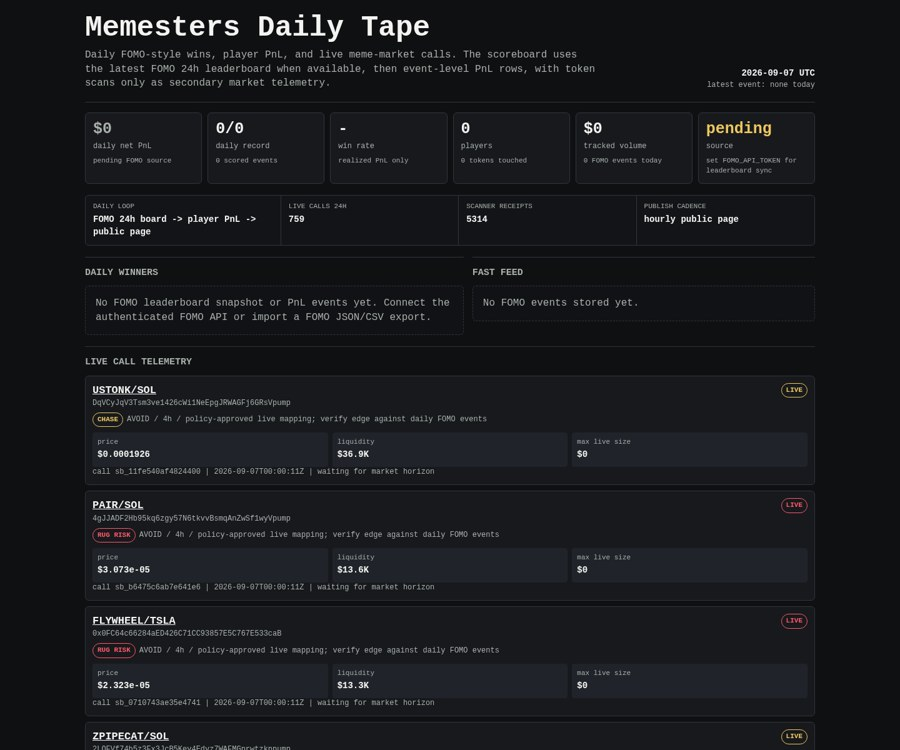
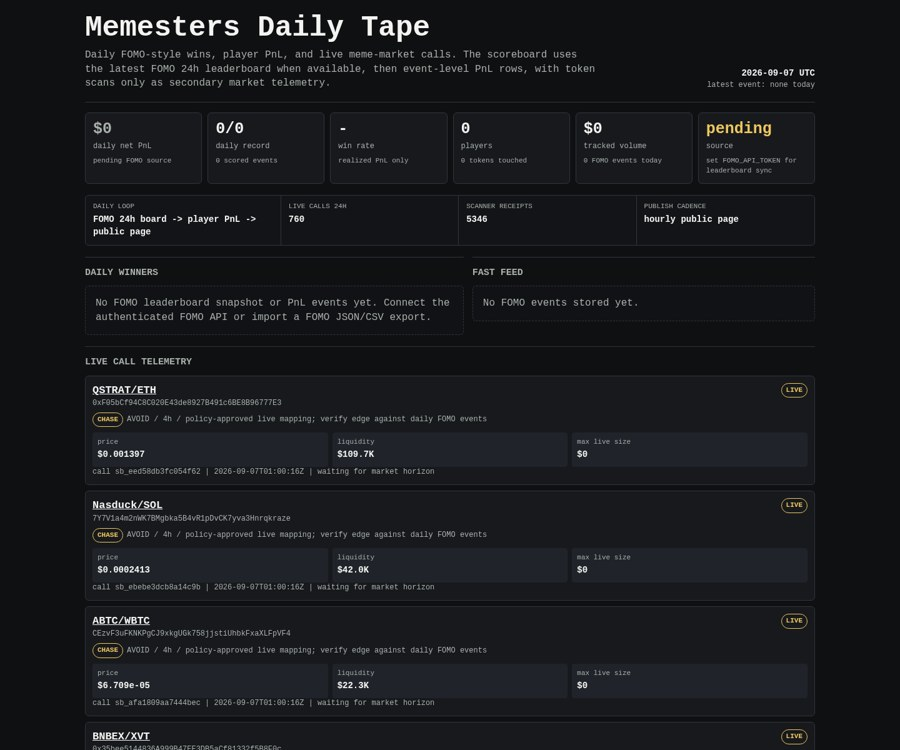
Update Memesters scoreboard

diff --git a/memesters/index.html b/memesters/index.html
@@ -149,8 +149,8 @@
 
     <div class="rail" aria-label="live operating loop">
       <div><span>daily loop</span><b>FOMO 24h board -> player PnL -> public page</b></div>
-      <div><span>live calls 24h</span><b>759</b></div>
-      <div><span>scanner receipts</span><b>5314</b></div>
+      <div><span>live calls 24h</span><b>760</b></div>
+      <div><span>scanner receipts</span><b>5346</b></div>
       <div><span>publish cadence</span><b>hourly public page</b></div>
     </div>
 
@@ -171,8 +171,8 @@
     <article class="receipt">
       <div class="receipt-head">
         <div>
-          <div class="pair"><a href="https://dexscreener.com/solana/961szob1qqorhqvrbsfu2lzju4az8f7j7ptanohurzjg">USTONK/SOL</a></div>
-          <div class="addr">DqVCyJqV3Tsm3ve1426cWi1NeEpgJRWAGFj6GRsVpump</div>
+          <div class="pair"><a href="https://dexscreener.com/robinhood/0x36e73ddbdd1e963a128069fd4b4aada63136ce62a6812234122dbf8b471ebcb8">QSTRAT/ETH</a></div>
+          <div class="addr">0xF05bCf94C8C020E43de8927B491c6BE8B96777E3</div>
           <div class="addr policy-line">
             <span class="badge chase">CHASE</span>
             <span>AVOID / 4h / policy-approved live mapping; verify edge against daily FOMO events</span>
@@ -181,19 +181,103 @@
         <span class="badge chase">LIVE</span>
       </div>
       <div class="receipt-grid">
-        <div class="kv"><span>price</span><b>$0.0001926</b></div>
-        <div class="kv"><span>liquidity</span><b>$36.9K</b></div>
+        <div class="kv"><span>price</span><b>$0.001397</b></div>
+        <div class="kv"><span>liquidity</span><b>$109.7K</b></div>
         <div class="kv"><span>max live size</span><b>$0</b></div>
       </div>
-      <div class="outcomes">call sb_11fe540af4824400 | 2026-09-07T00:00:11Z | waiting for market horizon</div>
+      <div class="outcomes">call sb_eed58db3fc054f62 | 2026-09-07T01:00:16Z | waiting for market horizon</div>
     </article>
     
 
     <article class="receipt">
       <div class="receipt-head">
         <div>
-          <div class="pair"><a href="https://dexscreener.com/solana/5qfuoruslf6qe9mp8rwy14eednw3qdted9oft8td5rhp">PAIR/SOL</a></div>
-          <div class="addr">4gJJADF2Hb95kq6zgy57N6tkvvBsmqAnZwSf1wyVpump</div>
+          <div class="pair"><a href="https://dexscreener.com/solana/937nyycpzqygdm71fx5xjzepdcnjlca9gsfe5esszk2h">Nasduck/SOL</a></div>
+          <div class="addr">7Y7V1a4m2nWK7BMgbka5B4vR1pDvCK7yva3Hnrqkraze</div>
+          <div class="addr policy-line">
+            <span class="badge chase">CHASE</span>
+            <span>AVOID / 4h / policy-approved live mapping; verify edge against daily FOMO events</span>
+          </div>
+        </div>
+        <span class="badge chase">LIVE</span>
+      </div>
+      <div class="receipt-grid">
+        <div class="kv"><span>price</span><b>$0.0002413</b></div>
+        <div class="kv"><span>liquidity</span><b>$42.0K</b></div>
+        <div class="kv"><span>max live size</span><b>$0</b></div>
+      </div>
+      <div class="outcomes">call sb_ebebe3dcb8a14c9b | 2026-09-07T01:00:16Z | waiting for market horizon</div>
+    </article>
+    
+
+    <article class="receipt">
+      <div class="receipt-head">
+        <div>
+          <div class="pair"><a href="https://dexscreener.com/solana/53zg3t1dyanpszu1scdd3kfkmy1q3zq4n5nrtc6nwfr5">ABTC/WBTC</a></div>
+          <div class="addr">CEzvF3uFKNKPgCJ9xkgUGk758jjstiUhbkFxaXLFpVF4</div>
+          <div class="addr policy-line">
+            <span class="badge chase">CHASE</span>
+            <span>AVOID / 4h / policy-approved live mapping; verify edge against daily FOMO events</span>
+          </div>
+        </div>
+        <span class="badge chase">LIVE</span>
+      </div>
+      <div class="receipt-grid">
+        <div class="kv"><span>price</span><b>$6.709e-05</b></div>
+        <div class="kv"><span>liquidity</span><b>$22.3K</b></div>
+        <div class="kv"><span>max live size</span><b>$0</b></div>
+      </div>
+      <div class="outcomes">call sb_afa1809aa7444bec | 2026-09-07T01:00:16Z | waiting for market horizon</div>
+    </article>
+    
+
+    <article class="receipt">
+      <div class="receipt-head">
+        <div>
+          <div class="pair"><a href="https://dexscreener.com/bsc/0x831a456cb31a66b96c91bd5ca4c64cab8a1df793">BNBEX/XVT</a></div>
+          <div class="addr">0x35bee5144836A999B47EE3DB5aCf81332f5B8F0c</div>
+          <div class="addr policy-line">
+            <span class="badge chase">CHASE</span>
+            <span>AVOID / 4h / policy-approved live mapping; verify edge against daily FOMO events</span>
+          </div>
+        </div>
+        <span class="badge chase">LIVE</span>
+      </div>
+      <div class="receipt-grid">
+        <div class="kv"><span>price</span><b>$2.093e-08</b></div>
+        <div class="kv"><span>liquidity</span><b>$6.9K</b></div>
+        <div class="kv"><span>max live size</span><b>$0</b></div>
+      </div>
+      <div class="outcomes">call sb_c8700dc6084f4b4b | 2026-09-07T01:00:16Z | waiting for market horizon</div>
+    </article>
+    
+
+    <article class="receipt">
+      <div class="receipt-head">
+        <div>
+          <div class="pair"><a href="https://dexscreener.com/bsc/0x0fc85516f4446f828f3feb50d48a7f8e80adbaac">Grogu/WBNB</a></div>
+          <div class="addr">0x9e9D2D61E5eF2D7D778ABa46799E4Bf731cD626B</div>
+          <div class="addr policy-line">
+            <span class="badge chase">CHASE</span>
+            <span>AVOID / 4h / policy-approved live mapping; verify edge against daily FOMO events</span>
+          </div>
+        </div>
+        <span class="badge chase">LIVE</span>
+      </div>
+      <div class="receipt-grid">
+        <div class="kv"><span>price</span><b>$0.000362</b></div>
+        <div class="kv"><span>liquidity</span><b>$74.0K</b></div>
+        <div class="kv"><span>max live size</span><b>$0</b></div>
+      </div>
+      <div class="outcomes">call sb_7b07dd3e21dd4519 | 2026-09-07T01:00:16Z | waiting for market horizon</div>
+    </article>
+    
+
+    <article class="receipt">
+      <div class="receipt-head">
+        <div>
+          <div class="pair"><a href="https://dexscreener.com/robinhood/0xa65cf29ec99e4a0085f449e418ed44359a4f30f192c9a7c6f757ca6090d6f326">APT/SKHY</a></div>
+          <div class="addr">0xD7f1B405c3eBB168F2c2329324D88a9e65C427d2</div>
           <div class="addr policy-line">
             <span class="badge rug-risk">RUG RISK</span>
             <span>AVOID / 4h / policy-approved live mapping; verify edge against daily FOMO events</span>
@@ -202,145 +286,19 @@
         <span class="badge rug-risk">LIVE</span>
       </div>
       <div class="receipt-grid">
-        <div class="kv"><span>price</span><b>$3.073e-05</b></div>
-        <div class="kv"><span>liquidity</span><b>$13.6K</b></div>
+        <div class="kv"><span>price</span><b>$7.776e-05</b></div>
+        <div class="kv"><span>liquidity</span><b>$55.8K</b></div>
         <div class="kv"><span>max live size</span><b>$0</b></div>
       </div>
-      <div class="outcomes">call sb_b6475c6ab7e641e6 | 2026-09-07T00:00:11Z | waiting for market horizon</div>
+      <div class="outcomes">call sb_a9ebc2da35c84ab8 | 2026-09-07T01:00:16Z | waiting for market horizon</div>
     </article>
     
 
     <article class="receipt">
       <div class="receipt-head">
         <div>
-          <div class="pair"><a href="https://dexscreener.com/robinhood/0x4f587801c5df609fa5cc1df380b7fc5f36e146f2bd62d62019686b7173601670">FLYWHEEL/TSLA</a></div>
-          <div class="addr">0x0FC64c66284aED426C71CC93857E5C767E533caB</div>
-          <div class="addr policy-line">
-            <span class="badge rug-risk">RUG RISK</span>
-            <span>AVOID / 4h / policy-approved live mapping; verify edge against daily FOMO events</span>
-          </div>
-        </div>
-        <span class="badge rug-risk">LIVE</span>
-      </div>
-      <div class="receipt-grid">
-        <div class="kv"><span>price</span><b>$2.323e-05</b></div>
-        <div class="kv"><span>liquidity</span><b>$13.3K</b></div>
-        <div class="kv"><span>max live size</span><b>$0</b></div>
-      </div>
-      <div class="outcomes">call sb_0710743ae35e4741 | 2026-09-07T00:00:11Z | waiting for market horizon</div>
-    </article>
-    
-
-    <article class="receipt">
-      <div class="receipt-head">
-        <div>
-          <div class="pair"><a href="https://dexscreener.com/solana/5lzmcxm27fp8xsz1pcqynhzjtjwkcdj9xjl22krxqezq">ZPIPECAT/SOL</a></div>
-          <div class="addr">2LQFVf74b5z3Fx3JcB5Kev4Edvz7WAFMGprwtzkppump</div>
-          <div class="addr policy-line">
-            <span class="badge chase">CHASE</span>
-            <span>AVOID / 4h / policy-approved live mapping; verify edge against daily FOMO events</span>
-          </div>
-        </div>
-        <span class="badge chase">LIVE</span>
-      </div>
-      <div class="receipt-grid">
-        <div class="kv"><span>price</span><b>$0.0001383</b></div>
-        <div class="kv"><span>liquidity</span><b>$32.3K</b></div>
-        <div class="kv"><span>max live size</span><b>$0</b></div>
-      </div>
-      <div class="outcomes">call sb_10198f111d334b68 | 2026-09-07T00:00:11Z | waiting for market horizon</div>
-    </article>
-    
-
-    <article class="receipt">
-      <div class="receipt-head">
-        <div>
-          <div class="pair"><a href="https://dexscreener.com/solana/bpcnizdva88b4vjbtlwkkmbsjen4fgaxbkjnjeprh6sp">VLADTARD/SOL</a></div>
-          <div class="addr">6Fh8duBjyLk5HUvuK9cJKfh3TLDNDSE4XbgMLRdpump</div>
-          <div class="addr policy-line">
-            <span class="badge chase">CHASE</span>
-            <span>AVOID / 4h / policy-approved live mapping; verify edge against daily FOMO events</span>
-          </div>
-        </div>
-        <span class="badge chase">LIVE</span>
-      </div>
-      <div class="receipt-grid">
-        <div class="kv"><span>price</span><b>$0.0002194</b></div>
-        <div class="kv"><span>liquidity</span><b>$40.7K</b></div>
-        <div class="kv"><span>max live size</span><b>$0</b></div>
-      </div>
-      <div class="outcomes">call sb_e8d5880689ac4ac1 | 2026-09-07T00:00:11Z | waiting for market horizon</div>
-    </article>
-    
-
-    <article class="receipt">
-      <div class="receipt-head">
-        <div>
-          <div class="pair"><a href="https://dexscreener.com/robinhood/0x99804149050af71cbf662a543825ecd93dbd4aa4b89e53033bf769b95e079ce2">EXIT/ETH</a></div>
-          <div class="addr">0x8729B8979Bbfbaed759B95901C5c076b49C36Bf5</div>
-          <div class="addr policy-line">
-            <span class="badge chase">CHASE</span>
-            <span>AVOID / 4h / policy-approved live mapping; verify edge against daily FOMO events</span>
-          </div>
-        </div>
-        <span class="badge chase">LIVE</span>
-      </div>
-      <div class="receipt-grid">
-        <div class="kv"><span>price</span><b>$0.0002131</b></div>
-        <div class="kv"><span>liquidity</span><b>$43.0K</b></div>
-        <div class="kv"><span>max live size</span><b>$0</b></div>
-      </div>
-      <div class="outcomes">call sb_a60d3128e3644bf9 | 2026-09-07T00:00:11Z | waiting for market horizon</div>
-    </article>
-    
-
-    <article class="receipt">
-      <div class="receipt-head">
-        <div>
-          <div class="pair"><a href="https://dexscreener.com/solana/ctg2x6beb1p8wqvscif26p5adxr5gqh9qbgtg375wmsn">BAGHOOD/SOL</a></div>
-          <div class="addr">2ww66irr9zQxRJb3mvt7kHZH3XYyULkFHGjLdnTwpump</div>
-          <div class="addr policy-line">
-            <span class="badge chase">CHASE</span>
-            <span>AVOID / 4h / policy-approved live mapping; verify edge against daily FOMO events</span>
-          </div>
-        </div>
-        <span class="badge chase">LIVE</span>
-      </div>
-      <div class="receipt-grid">
-        <div class="kv"><span>price</span><b>$0.0001309</b></div>
-        <div class="kv"><span>liquidity</span><b>$30.7K</b></div>
-        <div class="kv"><span>max live size</span><b>$0</b></div>
-      </div>
-      <div class="outcomes">call sb_f2f65137a9144d22 | 2026-09-07T00:00:11Z | waiting for market horizon</div>
-    </article>
-    
-
-    <article class="receipt">
-      <div class="receipt-head">
-        <div>
-          <div class="pair"><a href="https://dexscreener.com/solana/dk24kwogiwjyvfmbnm8vcwxmydyeegbmnuudlltiiw9y">METCAT/MET</a></div>
-          <div class="addr">4yFh2vMdY99TWv7uEaDBP16Ar3qmNaU4HtMbD6n3FVcg</div>
-          <div class="addr policy-line">
-            <span class="badge chase">CHASE</span>
-            <span>AVOID / 4h / policy-approved live mapping; verify edge against daily FOMO events</span>
-          </div>
-        </div>
-        <span class="badge chase">LIVE</span>
-      </div>
-      <div class="receipt-grid">
-        <div class="kv"><span>price</span><b>$0.0002101</b></div>
-        <div class="kv"><span>liquidity</span><b>$40.0K</b></div>
-        <div class="kv"><span>max live size</span><b>$0</b></div>
-      </div>
-      <div class="outcomes">call sb_a6c58a8dcf454752 | 2026-09-07T00:00:10Z | waiting for market horizon</div>
-    </article>
-    
-
-    <article class="receipt">
-      <div class="receipt-head">
-        <div>
-          <div class="pair"><a href="https://dexscreener.com/solana/7ye44qhn8xubq9f8scvxke3k6mbpydirudqyffrkzhq6">TISMCAT/SOL</a></div>
-          <div class="addr">5Zq4aKL7woJ4wAeHRpqJX4LwdYTZarD49mcwe1JGpump</div>
+          <div class="pair"><a href="https://dexscreener.com/robinhood/0x352898f57a97d995b61cf9b44a45fdd43dcedd318907508033a65c704b7c7ee1">SEAL/ETH</a></div>
+          <div class="addr">0xC8Ddfa7773362e616B0D7FC35576Bf96cE31e5D9</div>
           <div class="addr policy-line">
             <span class="badge early">EARLY</span>
             <span>BUY / 1h / policy-approved live mapping; verify edge against daily FOMO events</span>
@@ -349,19 +307,19 @@
         <span class="badge early">LIVE</span>
       </div>
       <div class="receipt-grid">
-        <div class="kv"><span>price</span><b>$7.295e-05</b></div>
-        <div class="kv"><span>liquidity</span><b>$21.6K</b></div>
-        <div class="kv"><span>max live size</span><b>$128</b></div>
+        <div class="kv"><span>price</span><b>$7.579e-05</b></div>
+        <div class="kv"><span>liquidity</span><b>$25.6K</b></div>
+        <div class="kv"><span>max live size</span><b>$190</b></div>
       </div>
-      <div class="outcomes">call sb_7982fd49ba904948 | 2026-09-06T23:45:11Z | waiting for market horizon</div>
+      <div class="outcomes">call sb_c020c4be3abe4715 | 2026-09-07T01:00:16Z | waiting for market horizon</div>
     </article>
     
 
     <article class="receipt">
       <div class="receipt-head">
         <div>
-          <div class="pair"><a href="https://dexscreener.com/solana/ayr9z9dnhighfcknnm6vuhfyd6y4t2tdbdafydqhstxk">GHRD/MSFTx</a></div>
-          <div class="addr">3ZqTR9uGBdWhUT6yrLmqmQaaTetxe387mph3geXq6QUt</div>
+          <div class="pair"><a href="https://dexscreener.com/solana/bwkvg7ugp7teyg9n38pcudzqunbgtsxb1xbng13sgbrq">BEBE/SOL</a></div>
+          <div class="addr">B5npKQVxAJc3ojyFbfPwxFXxmpdqfssqRNHnk39xpump</div>
           <div class="addr policy-line">
             <span class="badge chase">CHASE</span>
             <span>AVOID / 4h / policy-approved live mapping; verify edge against daily FOMO events</span>
@@ -370,11 +328,53 @@
         <span class="badge chase">LIVE</span>
       </div>
       <div class="receipt-grid">
-        <div class="kv"><span>price</span><b>$1.038e-05</b></div>
-        <div class="kv"><span>liquidity</span><b>$7.8K</b></div>
+        <div class="kv"><span>price</span><b>$0.001031</b></div>
+        <div class="kv"><span>liquidity</span><b>$88.5K</b></div>
         <div class="kv"><span>max live size</span><b>$0</b></div>
       </div>
-      <div class="outcomes">call sb_a77e12c19aef4aeb | 2026-09-06T23:45:11Z | waiting for market horizon</div>
+      <div class="outcomes">call sb_2af19504615d430d | 2026-09-07T01:00:16Z | waiting for market horizon</div>
+    </article>
+    
+
+    <article class="receipt">
+      <div class="receipt-head">
+        <div>
+          <div class="pair"><a href="https://dexscreener.com/solana/f2m23pbxhudcfc88pskwoqn3ya4xzb7qernmbqptmr96">NASDAQ/SOL</a></div>
+          <div class="addr">nasd9ZCaNtC3wZ4G7updmA48VGmcgyNnXsYQ6cRLkjP</div>
+          <div class="addr policy-line">
+            <span class="badge rug-risk">RUG RISK</span>
+            <span>AVOID / 4h / policy-approved live mapping; verify edge against daily FOMO events</span>
+          </div>
+        </div>
+        <span class="badge rug-risk">LIVE</span>
+      </div>
+      <div class="receipt-grid">
+        <div class="kv"><span>price</span><b>$2.402e-05</b></div>
+        <div class="kv"><span>liquidity</span><b>$11.7K</b></div>
+        <div class="kv"><span>max live size</span><b>$0</b></div>
+      </div>
+      <div class="outcomes">call sb_dd25a9b130124686 | 2026-09-07T00:45:13Z | waiting for market horizon</div>
+    </article>
+    
+
+    <article class="receipt">
+      <div class="receipt-head">
+        <div>
+          <div class="pair"><a href="https://dexscreener.com/solana/cnvk1tqqxyprmjbhuuabdavfgmbmmqzaamntrnmjsd3w">Zcate/SOL</a></div>
+          <div class="addr">3FF6iwh2JJwdo972sWXUXPCvJL5s5Rqyb65VbQZgpump</div>
+          <div class="addr policy-line">
+            <span class="badge rug-risk">RUG RISK</span>
+            <span>AVOID / 4h / policy-approved live mapping; verify edge against daily FOMO events</span>
+          </div>
+        </div>
+        <span class="badge rug-risk">LIVE</span>
+      </div>
+      <div class="receipt-grid">
+        <div class="kv"><span>price</span><b>$2.14e-06</b></div>
+        <div class="kv"><span>liquidity</span><b>$2.2K</b></div>
+        <div class="kv"><span>max live size</span><b>$0</b></div>
+      </div>
+      <div class="outcomes">call sb_6b50cc1ef56f4d4e | 2026-09-07T00:45:13Z | waiting for market horizon</div>
     </article>
     
     </section>
